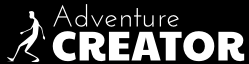
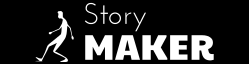
- title change - check if bgmap exists

diff --git a/engine/src/org/bladecoder/engine/model/SpriteActor.java b/engine/src/org/bladecoder/engine/model/SpriteActor.java
@@ -9,6 +9,7 @@ import org.bladecoder.engine.anim.SpritePosTween;
 import org.bladecoder.engine.anim.TweenManagerSingleton;
 import org.bladecoder.engine.anim.WalkTween;
 import org.bladecoder.engine.assets.EngineAssetManager;
+import org.bladecoder.engine.pathfinder.PixTileMap;
 import org.bladecoder.engine.util.EngineLogger;
 import org.bladecoder.engine.util.RectangleRenderer;
 
@@ -248,10 +249,13 @@ public abstract class SpriteActor extends BaseActor {
 
 		Vector2 p0 = getPosition();
 
-		ArrayList<Vector2> walkingPath = scene.getBackgroundMap().findPath(
-				scene, p0, pf);
+		ArrayList<Vector2> walkingPath = null;
+		PixTileMap bgMap = scene.getBackgroundMap();
+		
+		if(bgMap != null)
+			walkingPath = bgMap.findPath(scene, p0, pf);
 
-		if (walkingPath.size() == 0 ) {
+		if (walkingPath == null || walkingPath.size() == 0 ) {
 			// llamamos al callback aunque el camino esté vacío
 			if(cb != null)
 				cb.onEvent();

diff --git a/story-maker/src/org/bladecoder/engineeditor/ui/MainWindow.java b/story-maker/src/org/bladecoder/engineeditor/ui/MainWindow.java
@@ -38,7 +38,7 @@ import com.badlogic.gdx.backends.lwjgl.LwjglAWTCanvas;
 public class MainWindow extends JFrame implements PropertyChangeListener {
 	public static final String VERSION_STR = "0.1.0 (Beta)";
 	public static final String COPYRIGHT_STR = "<html><p align=\"left\">2013 - Rafael García<br/>http://bladecoder.blogspot.com</p></html>";
-	public static final String TITLE = "Adventure Creator";
+	public static final String TITLE = "Story Maker";
 	
 
     private javax.swing.JPanel leftPanel;
